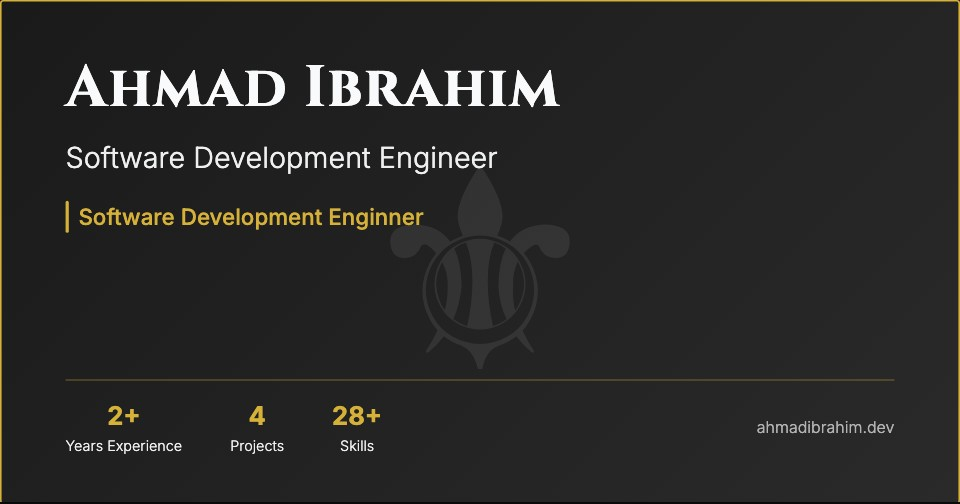
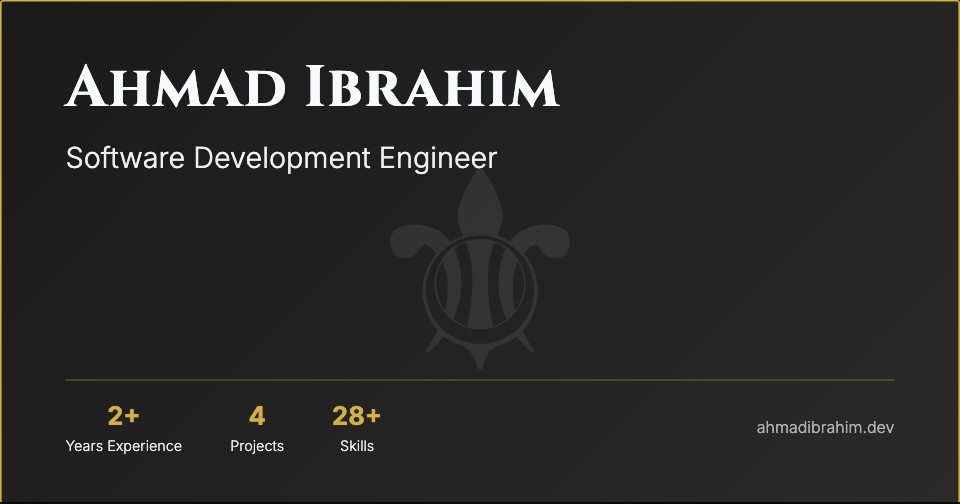
fix: Update OG images

Changed region(s): [[0.0625, 0.3869, 0.4375, 0.4762]]

diff --git a/scripts/og-image.html b/scripts/og-image.html
@@ -223,10 +223,10 @@
         <p class="tagline" id="tagline">Software Development Engineer</p>
 
         <!-- Current Role with Gold Accent -->
-        <div class="current-role">
+        <!-- <div class="current-role">
           <div class="role-accent"></div>
           <p class="role-text" id="current-role">Software Development Enginner</p>
-        </div>
+        </div> -->
       </div>
 
       <!-- Bottom Stats Bar -->
